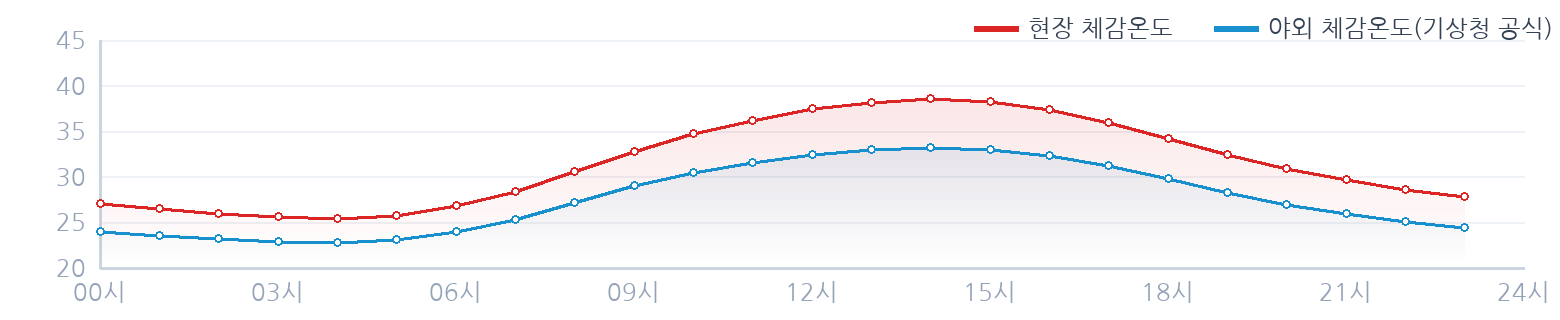
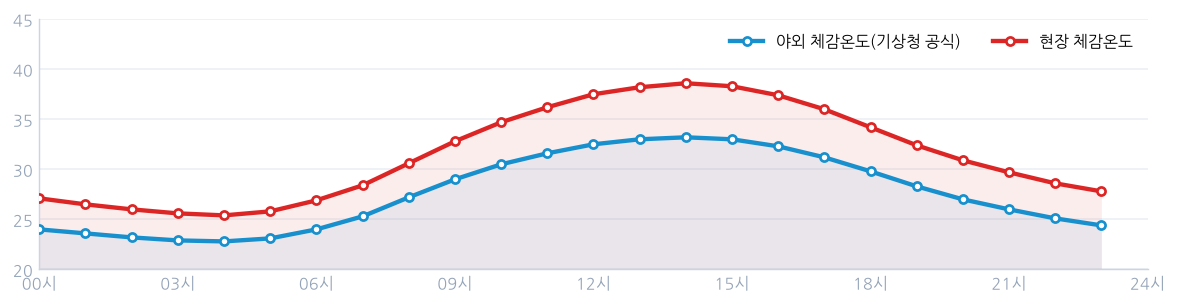
feat: PDF 차트 matplotlib 채택 (mpl 우선 + PIL 폴백 디스패처)
- report.py: _mpl_hourly/_mpl_compare 추가(recharts 룩 — 단계색 LineCollection·
  영역 그라데이션(imshow 클립)·임계선·근무음영·피크 배지·흰점 마커).
  기존 PIL은 _pil_hourly/_pil_compare 로 폴백화. _chart_hourly_feels/_chart_compare 는
  디스패처(HAS_MPL→mpl, 아니면 PIL).
- 결과: dev/로컬/스튜디오(matplotlib O)=mpl 차트 / Vercel prod(250MB 한도로 mpl 제외)=PIL 폴백
- 스튜디오 샘플 PNG를 mpl 출력으로 교체

※ prod requirements.txt 는 미변경(Vercel 250MB 하드리밋) — mpl 을 Vercel PDF 에도 넣을지는 별도 결정

diff --git a/backend/app/services/report.py b/backend/app/services/report.py
@@ -418,8 +418,8 @@ def _fill_gradient_area(img, pts, base_y, rgb, top_alpha):
     img.paste(Image.new("RGB", (W, H), rgb), (0, 0), alpha)
 
 
-def _chart_hourly_feels(series, th) -> str | None:
-    """시간별 체감온도 라인 차트 — 위험단계 색상 구간선 + 임계선 + 피크 주석."""
+def _pil_hourly(series, th) -> str | None:
+    """[PIL 폴백] 시간별 체감온도 라인 차트 — 위험단계 색상 구간선 + 임계선 + 피크 배지."""
     try:
         from PIL import Image, ImageDraw
     except Exception:  # noqa: BLE001
@@ -499,8 +499,8 @@ def _chart_hourly_feels(series, th) -> str | None:
     return _png_data_uri(img)
 
 
-def _chart_compare(hours) -> str | None:
-    """내부 체감온도 vs 야외 기온 비교 라인 차트 (시간 단위)."""
+def _pil_compare(hours) -> str | None:
+    """[PIL 폴백] 내부 체감온도 vs 야외 기온 비교 라인 차트 (시간 단위)."""
     try:
         from PIL import Image, ImageDraw
     except Exception:  # noqa: BLE001
@@ -557,6 +557,131 @@ def _chart_compare(hours) -> str | None:
     d.text((lx + 174, 28), out_label, font=F(24), fill="#334155", anchor="lm")
 
     return _png_data_uri(img)
+
+
+# ---------------- matplotlib 차트 (우선; 없으면 위 PIL 폴백) — 웹 recharts 룩 ----------------
+def _mpl_style_axes(ax, ymin, ymax):
+    import numpy as np
+
+    ax.set_xlim(0, 24)
+    ax.set_ylim(ymin, ymax)
+    ax.set_xticks(range(0, 25, 3))
+    ax.set_xticklabels([f"{h:02d}시" for h in range(0, 25, 3)], fontsize=9, color="#94a3b8")
+    ax.set_yticks(np.arange(ymin, ymax + 1, 5))
+    ax.tick_params(axis="y", labelsize=9, colors="#94a3b8", length=0)
+    ax.tick_params(axis="x", length=0)
+    ax.grid(axis="y", color="#eef2f6", linewidth=1.1)
+    ax.set_axisbelow(True)
+    for s in ("top", "right"):
+        ax.spines[s].set_visible(False)
+    for s in ("left", "bottom"):
+        ax.spines[s].set_color("#cbd5e1")
+    ax.margins(x=0)
+
+
+def _mpl_hourly(series, th) -> str | None:
+    """[matplotlib] 시간별 체감온도 — 단계색 라인 + 영역 그라데이션 + 임계선 + 피크 배지."""
+    import numpy as np
+    from matplotlib.collections import LineCollection
+
+    xs = np.array([x for x, _ in series], dtype=float)
+    ys = np.array([v for _, v in series], dtype=float)
+    ymin = min(float(ys.min()) - 2, 20.0)
+    ymax = max(float(ys.max()) + 3, 41.0)
+    ymin = float(np.floor(ymin / 5) * 5)
+    ymax = float(np.ceil(ymax / 5) * 5)
+
+    fig, ax = plt.subplots(figsize=(11, 2.7), dpi=150)
+    ax.axvspan(9, 18, color="#0f499e", alpha=0.05, lw=0)  # 근무시간 음영
+
+    # 영역 그라데이션(라인 아래) — imshow + 폴리곤 클립
+    fillc = ax.fill_between(xs, ys, ymin, color="none")
+    grad = np.linspace(0.30, 0.0, 256).reshape(-1, 1)
+    rgba = np.zeros((256, 1, 4))
+    rgba[..., 0] = 0.86  # dc2626
+    rgba[..., 1] = 0.15
+    rgba[..., 2] = 0.15
+    rgba[..., 3] = grad[..., 0]
+    im = ax.imshow(rgba, aspect="auto", extent=[0, 24, ymin, ymax], origin="upper", zorder=1)
+    im.set_clip_path(fillc.get_paths()[0], transform=ax.transData)
+
+    # 임계선 + 라벨
+    for code in ("attention", "caution", "warning", "danger"):
+        yv = th[code]
+        if ymin < yv < ymax:
+            c = heat.LEVELS[code].color
+            ax.axhline(yv, color=c, ls=(0, (6, 4)), lw=1.2, alpha=0.85, zorder=2)
+            ax.text(23.85, yv + 0.1, f"{heat.LEVELS[code].label} {int(yv)}", color=c,
+                    fontsize=8.5, va="bottom", ha="right", zorder=3)
+
+    # 단계색 구간 라인
+    pts = np.array([xs, ys]).T.reshape(-1, 1, 2)
+    segs = np.concatenate([pts[:-1], pts[1:]], axis=1)
+    cols = [heat.classify((ys[i] + ys[i + 1]) / 2).color for i in range(len(ys) - 1)]
+    lc = LineCollection(segs, colors=cols, linewidths=3.2, capstyle="round", joinstyle="round", zorder=4)
+    ax.add_collection(lc)
+
+    # 피크 — 점 + 값 배지
+    pi = int(np.argmax(ys))
+    pc = heat.classify(float(ys[pi])).color
+    ax.plot(xs[pi], ys[pi], "o", color=pc, mec="white", mew=1.8, ms=8, zorder=6)
+    ax.annotate(f"{ys[pi]:.1f}℃", (xs[pi], ys[pi]), xytext=(0, 13), textcoords="offset points",
+                ha="center", va="bottom", fontsize=10, fontweight="bold", color="white",
+                bbox=dict(boxstyle="round,pad=0.34", fc=pc, ec="none"), zorder=7)
+
+    _mpl_style_axes(ax, ymin, ymax)
+    return _fig_to_data_uri(fig)
+
+
+def _mpl_compare(hours) -> str | None:
+    """[matplotlib] 내부 체감 vs 외부 비교 — 두 라인 + 영역 + 흰 점 마커 + 범례."""
+    import numpy as np
+
+    pin = [(h["hour"], h["feels"]) for h in hours if h.get("feels") is not None]
+    use_feels = sum(1 for h in hours if h.get("out_feels") is not None) >= 2
+    key = "out_feels" if use_feels else "outdoor"
+    pout = [(h["hour"], h[key]) for h in hours if h.get(key) is not None]
+    out_label = "야외 체감온도(기상청 공식)" if use_feels else "야외 기온"
+    if len(pin) < 2 or len(pout) < 2:
+        return None
+    xi = np.array([x for x, _ in pin], dtype=float); yi = np.array([v for _, v in pin], dtype=float)
+    xo = np.array([x for x, _ in pout], dtype=float); yo = np.array([v for _, v in pout], dtype=float)
+    allv = np.concatenate([yi, yo])
+    ymin = float(np.floor((allv.min() - 2) / 5) * 5)
+    ymax = float(np.ceil((allv.max() + 3) / 5) * 5)
+
+    fig, ax = plt.subplots(figsize=(11, 2.5), dpi=150)
+    ax.fill_between(xo, yo, ymin, color="#1790cd", alpha=0.08, lw=0, zorder=1)
+    ax.fill_between(xi, yi, ymin, color="#dc2626", alpha=0.08, lw=0, zorder=1)
+    ax.plot(xo, yo, color="#1790cd", lw=2.4, label=out_label, marker="o", ms=4.5,
+            mfc="white", mec="#1790cd", mew=1.5, zorder=3)
+    ax.plot(xi, yi, color="#dc2626", lw=2.4, label="현장 체감온도", marker="o", ms=4.5,
+            mfc="white", mec="#dc2626", mew=1.5, zorder=4)
+    ax.legend(loc="upper right", fontsize=9, frameon=False, ncol=2)
+    _mpl_style_axes(ax, ymin, ymax)
+    return _fig_to_data_uri(fig)
+
+
+def _chart_hourly_feels(series, th) -> str | None:
+    """시간별 체감온도 차트 — matplotlib 우선, 실패/미설치 시 PIL 폴백."""
+    if not series or len(series) < 2:
+        return None
+    if HAS_MPL:
+        try:
+            return _mpl_hourly(series, th)
+        except Exception:  # noqa: BLE001
+            pass
+    return _pil_hourly(series, th)
+
+
+def _chart_compare(hours) -> str | None:
+    """내외부 비교 차트 — matplotlib 우선, 실패/미설치 시 PIL 폴백."""
+    if HAS_MPL:
+        try:
+            return _mpl_compare(hours)
+        except Exception:  # noqa: BLE001
+            pass
+    return _pil_compare(hours)
 
 
 _DAILY_TEMPLATE = Template(
